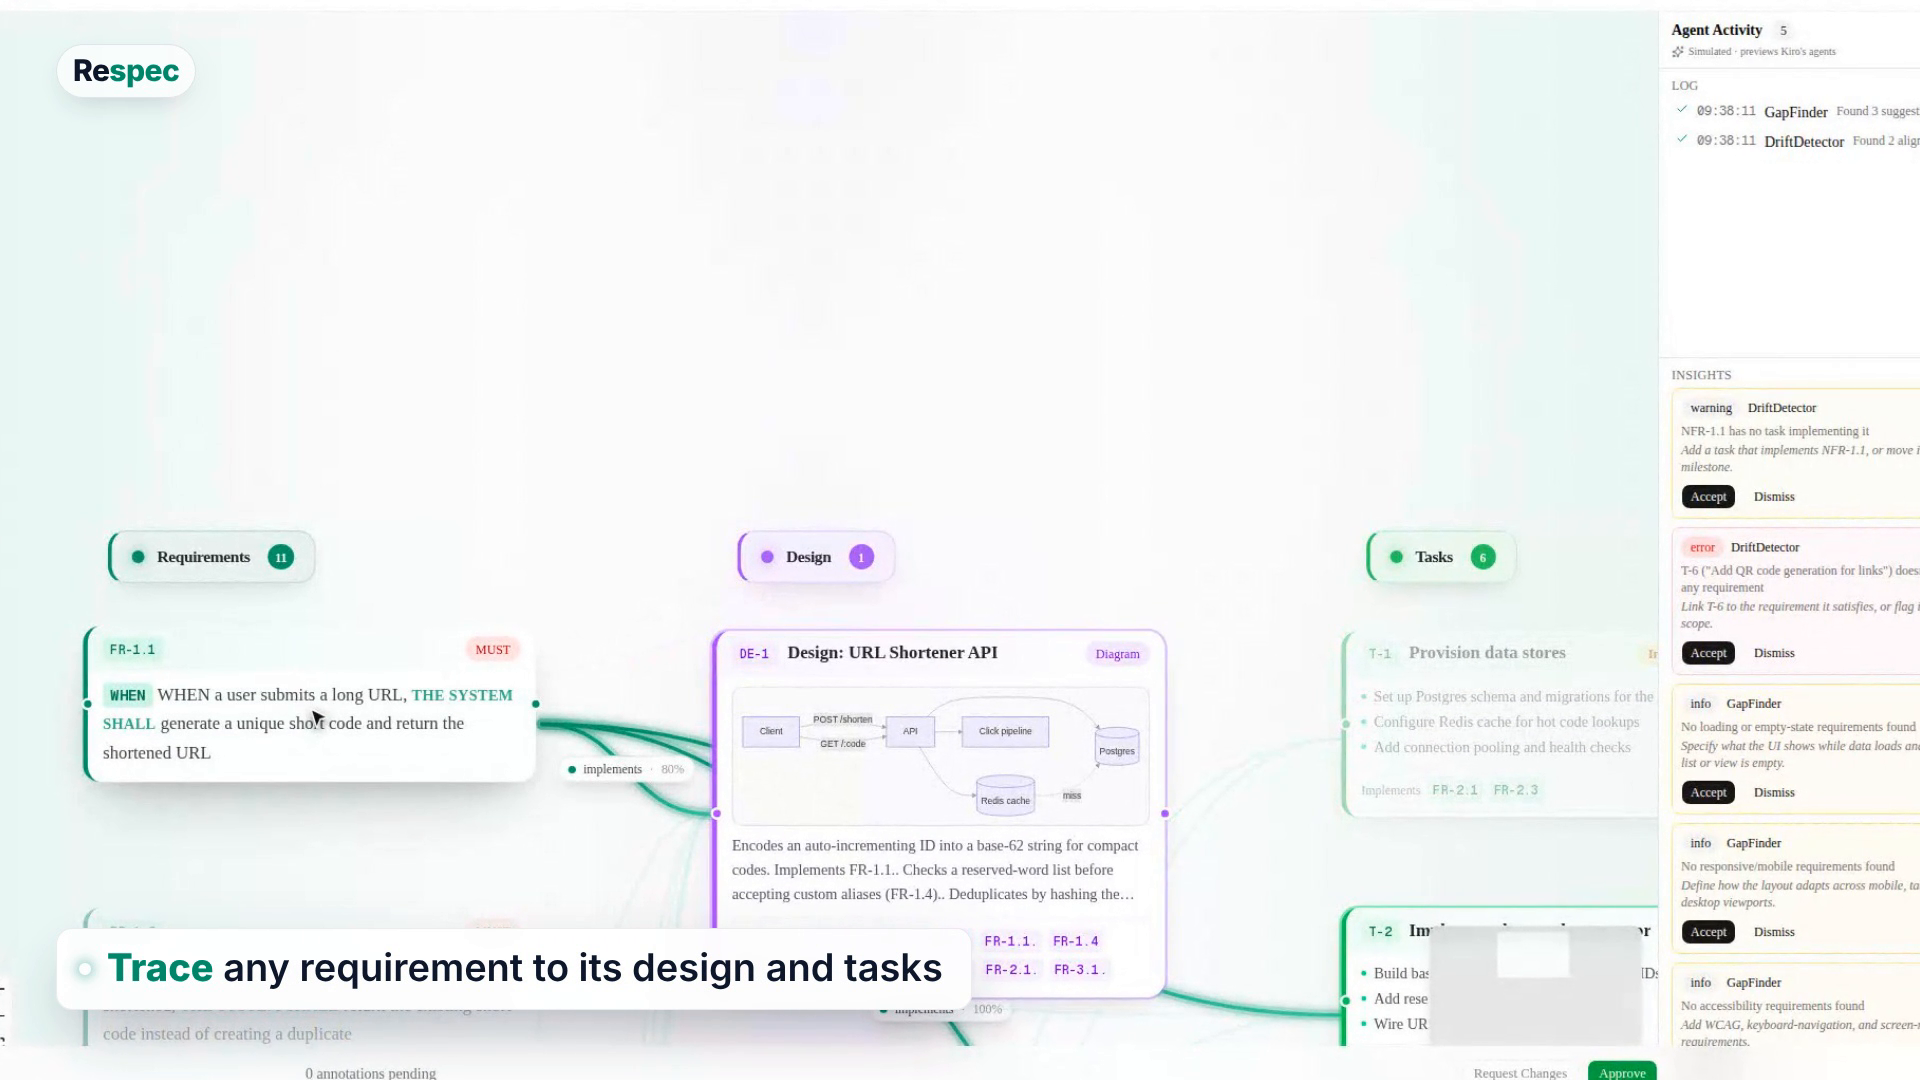
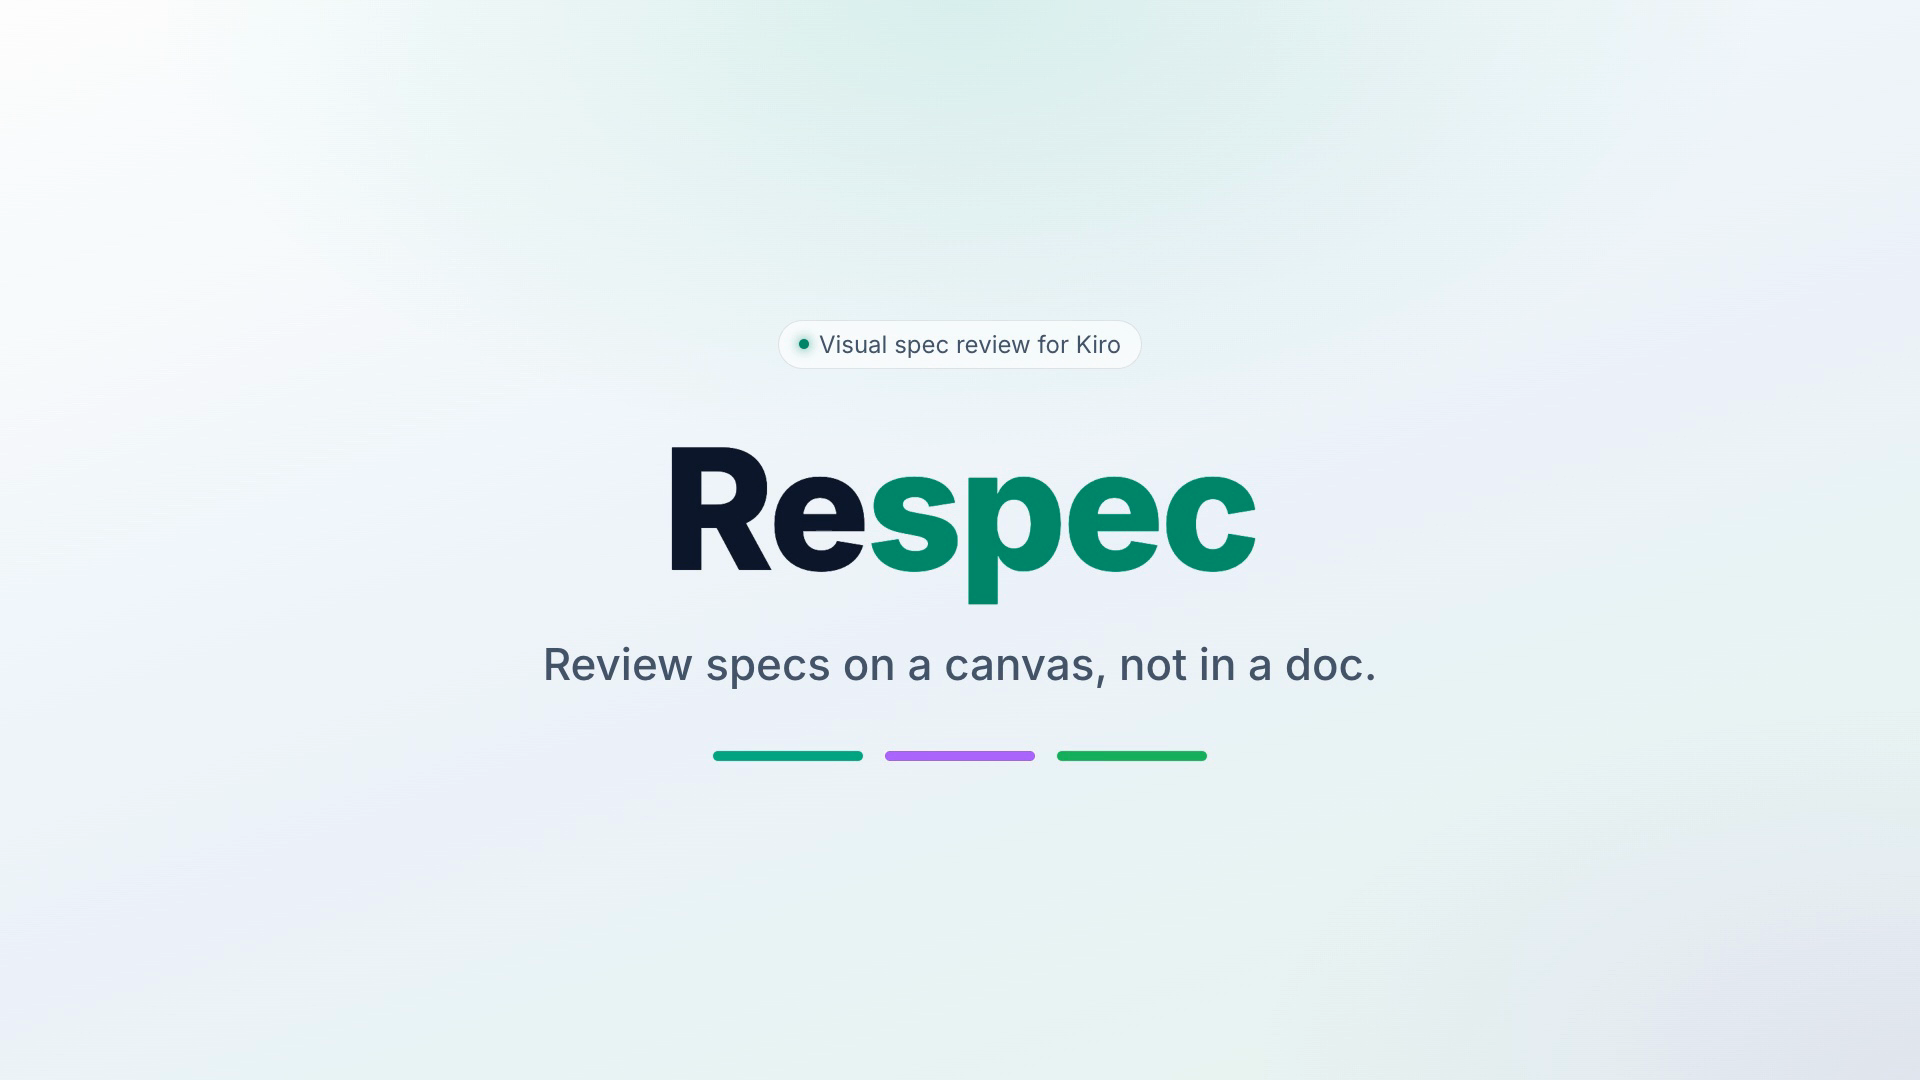
Consolidate demo to one light-mode video under 30s
Replace the dual light/dark demo videos with a single light-theme
HyperFrames composition that covers every feature (landing, canvas
reveal, hover-to-trace, agent flags, annotate, compile feedback,
approve + handoff) in one 28s clip.

- index.html: retimed to 28s, light palette, Ken-Burns zooms; drop the
  separate index-light.html variant (removes duplicate-root lint error)
- assets/*.mp4: re-encoded from the light captures, sped up per scene
- convert.sh / capture.mjs: default to the light pipeline
- docs: single respec-demo.mp4 + regenerated poster; drop the -light and
  dark dual variants
- README: point the Demo section at the one video

diff --git a/demo-video/index.html b/demo-video/index.html
@@ -6,80 +6,80 @@
     <script src="https://cdn.jsdelivr.net/npm/gsap@3.14.2/dist/gsap.min.js"></script>
     <style>
       * { margin: 0; padding: 0; box-sizing: border-box; }
-      html, body { width: 1920px; height: 1080px; overflow: hidden; background: #07090c; }
+      html, body { width: 1920px; height: 1080px; overflow: hidden; background: #f6f8fb; }
       body { font-family: "Inter", system-ui, sans-serif; }
       .mono { font-family: "JetBrains Mono", monospace; }
 
-      #root { position: relative; width: 1920px; height: 1080px; overflow: hidden; background: #07090c; }
+      #root { position: relative; width: 1920px; height: 1080px; overflow: hidden; background: #f6f8fb; }
 
       /* Full-bleed scene background (never on #root itself per determinism rules) */
       .bg {
         position: absolute; inset: 0;
         background:
-          radial-gradient(60% 60% at 50% 0%, rgba(16,185,129,.16), transparent 70%),
-          radial-gradient(50% 50% at 100% 100%, rgba(168,85,247,.12), transparent 70%),
-          linear-gradient(160deg, #07090c 0%, #0b1220 55%, #05130d 100%);
+          radial-gradient(60% 60% at 50% 0%, rgba(16,185,129,.12), transparent 70%),
+          radial-gradient(50% 50% at 100% 100%, rgba(168,85,247,.10), transparent 70%),
+          linear-gradient(160deg, #ffffff 0%, #eef3f9 55%, #eaf6ef 100%);
       }
 
-      /* ---- Video clips ---- */
+      /* ---- Video clips (full-frame; GSAP owns transform for the zoom) ---- */
       video.shot {
-        position: absolute; left: 50%; top: 50%;
-        width: 1920px; height: 1080px; transform: translate(-50%, -50%);
-        object-fit: cover; background: #07090c;
+        position: absolute; inset: 0;
+        width: 1920px; height: 1080px;
+        object-fit: cover; background: #f6f8fb; will-change: transform;
       }
 
       /* ---- Brand chrome over the footage ---- */
-      .wordmark { font-weight: 800; letter-spacing: -.02em; color: #fafafa; }
-      .wordmark .accent { color: #34d399; }
+      .wordmark { font-weight: 800; letter-spacing: -.02em; color: #0f172a; }
+      .wordmark .accent { color: #059669; }
 
       #brand {
         position: absolute; left: 56px; top: 44px; font-size: 30px;
         padding: 8px 16px; border-radius: 999px;
-        background: rgba(9,12,16,.55); border: 1px solid rgba(255,255,255,.1);
-        backdrop-filter: blur(6px);
+        background: rgba(255,255,255,.72); border: 1px solid rgba(15,23,42,.1);
+        backdrop-filter: blur(6px); box-shadow: 0 10px 30px -12px rgba(15,23,42,.25);
       }
 
-      /* ---- Lower-third caption ---- */
+      /* ---- Lower-third caption (light card, dark text, strong shadow) ---- */
       .cap {
         position: absolute; left: 56px; bottom: 70px;
         display: flex; align-items: center; gap: 16px;
         padding: 18px 28px 18px 22px; border-radius: 16px;
-        background: rgba(9,12,16,.72); border: 1px solid rgba(255,255,255,.12);
-        box-shadow: 0 24px 60px -20px rgba(0,0,0,.6); backdrop-filter: blur(10px);
+        background: rgba(255,255,255,.93); border: 1px solid rgba(15,23,42,.08);
+        box-shadow: 0 26px 64px -18px rgba(15,23,42,.45); backdrop-filter: blur(10px);
         max-width: 1180px;
       }
       .cap .dot { width: 12px; height: 12px; border-radius: 50%; flex: none; box-shadow: 0 0 14px currentColor; }
-      .cap .txt { font-size: 38px; font-weight: 600; color: #f4f4f5; line-height: 1.15; }
+      .cap .txt { font-size: 38px; font-weight: 600; color: #0f172a; line-height: 1.15; }
       .cap .k { font-weight: 800; }
-      .cap-em { color: #34d399; } .cap-pu { color: #c084fc; } .cap-gr { color: #4ade80; }
+      .cap-em { color: #059669; } .cap-pu { color: #9333ea; } .cap-gr { color: #16a34a; }
 
       /* ---- Intro / Outro cards ---- */
       .card { position: absolute; inset: 0; display: flex; flex-direction: column; align-items: center; justify-content: center; }
       .card .badge {
-        display: inline-flex; align-items: center; gap: 10px; font-size: 24px; color: #a8b3c4;
-        padding: 9px 20px; border-radius: 999px; border: 1px solid rgba(255,255,255,.12);
-        background: rgba(255,255,255,.04); margin-bottom: 38px;
+        display: inline-flex; align-items: center; gap: 10px; font-size: 24px; color: #475569;
+        padding: 9px 20px; border-radius: 999px; border: 1px solid rgba(15,23,42,.1);
+        background: rgba(255,255,255,.7); margin-bottom: 38px;
       }
-      .card .badge .pulse { width: 10px; height: 10px; border-radius: 50%; background: #34d399; box-shadow: 0 0 12px #34d399; }
+      .card .badge .pulse { width: 10px; height: 10px; border-radius: 50%; background: #059669; box-shadow: 0 0 12px #059669; }
       #intro-word { font-size: 168px; }
-      #intro-tag { font-size: 44px; color: #cbd5e1; margin-top: 26px; font-weight: 500; }
+      #intro-tag { font-size: 44px; color: #475569; margin-top: 26px; font-weight: 500; }
       #intro-cols { display: flex; gap: 22px; margin-top: 60px; }
       #intro-cols .c { width: 150px; height: 10px; border-radius: 6px; }
 
       #outro-word { font-size: 150px; }
-      #outro-sub { font-size: 40px; color: #cbd5e1; margin-top: 22px; font-weight: 500; }
-      #outro-url { font-size: 34px; color: #34d399; margin-top: 40px; letter-spacing: .01em; }
-      #outro-foot { font-size: 26px; color: #8b97a8; margin-top: 14px; }
+      #outro-sub { font-size: 40px; color: #475569; margin-top: 22px; font-weight: 500; }
+      #outro-url { font-size: 34px; color: #059669; margin-top: 40px; letter-spacing: .01em; }
+      #outro-foot { font-size: 26px; color: #64748b; margin-top: 14px; }
     </style>
   </head>
   <body>
-    <div id="root" data-composition-id="main" data-start="0" data-duration="44.5" data-width="1920" data-height="1080" data-fps="30">
+    <div id="root" data-composition-id="main" data-start="0" data-duration="28.0" data-width="1920" data-height="1080" data-fps="30">
       <!-- persistent scene background under the footage -->
-      <div id="bg" class="clip bg" data-start="0" data-duration="44.5" data-track-index="0"></div>
+      <div id="bg" class="clip bg" data-start="0" data-duration="28.0" data-track-index="0"></div>
 
       <!-- ============ INTRO ============ -->
-      <section id="intro" class="clip card" data-start="0" data-duration="3.4" data-track-index="6">
-        <div class="bg" style="opacity:.9"></div>
+      <section id="intro" class="clip card" data-start="0" data-duration="2.0" data-track-index="6">
+        <div class="bg" style="opacity:.95"></div>
         <div style="position:relative; display:flex; flex-direction:column; align-items:center;">
           <span id="intro-badge" class="badge"><span class="pulse"></span> Visual spec review for Kiro</span>
           <div id="intro-word" class="wordmark">Re<span class="accent">spec</span></div>
@@ -92,27 +92,27 @@
         </div>
       </section>
 
-      <!-- ============ FOOTAGE (videos alternate visually via fade-ins) ============ -->
-      <video id="v-home"   class="shot" src="assets/home.mp4"   data-start="3.0"  data-duration="4.5"  data-track-index="1" muted playsinline></video>
-      <video id="v-reveal" class="shot" src="assets/reveal.mp4" data-start="7.5"  data-duration="5.5"  data-track-index="2" muted playsinline></video>
-      <video id="v-trace"  class="shot" src="assets/trace.mp4"  data-start="13.0" data-duration="5.5"  data-track-index="1" muted playsinline></video>
-      <video id="v-rail"   class="shot" src="assets/rail.mp4"   data-start="18.5" data-duration="4.5"  data-track-index="2" muted playsinline></video>
-      <video id="v-review" class="shot" src="assets/review.mp4" data-start="23.0" data-duration="18.0" data-track-index="1" muted playsinline></video>
+      <!-- ============ FOOTAGE (chained back-to-back, soft fade at each cut) ============ -->
+      <video id="v-home"   class="shot" src="assets/home.mp4"   data-start="1.85"   data-duration="2.933"  data-track-index="1" muted playsinline></video>
+      <video id="v-reveal" class="shot" src="assets/reveal.mp4" data-start="4.783"  data-duration="3.333"  data-track-index="2" muted playsinline></video>
+      <video id="v-trace"  class="shot" src="assets/trace.mp4"  data-start="8.116"  data-duration="3.333"  data-track-index="1" muted playsinline></video>
+      <video id="v-rail"   class="shot" src="assets/rail.mp4"   data-start="11.449" data-duration="2.967"  data-track-index="2" muted playsinline></video>
+      <video id="v-review" class="shot" src="assets/review.mp4" data-start="14.416" data-duration="11.567" data-track-index="1" muted playsinline></video>
 
       <!-- brand chip over footage -->
-      <div id="brand" class="clip wordmark" data-start="3.0" data-duration="38.0" data-track-index="4">Re<span class="accent">spec</span></div>
+      <div id="brand" class="clip wordmark" data-start="1.85" data-duration="24.133" data-track-index="4">Re<span class="accent">spec</span></div>
 
       <!-- ============ CAPTIONS ============ -->
-      <div id="cap1" class="clip cap" data-start="3.4"  data-duration="3.9" data-track-index="5"><span class="dot cap-em" style="color:#34d399"></span><span class="txt">Turn Kiro specs into an <span class="k cap-em">interactive canvas</span></span></div>
-      <div id="cap2" class="clip cap" data-start="7.7"  data-duration="5.0" data-track-index="5"><span class="dot" style="color:#a855f7"></span><span class="txt"><span class="k cap-em">Requirements</span> → <span class="k cap-pu">Design</span> → <span class="k cap-gr">Tasks</span>, fully cross-referenced</span></div>
-      <div id="cap3" class="clip cap" data-start="13.2" data-duration="5.1" data-track-index="5"><span class="dot" style="color:#34d399"></span><span class="txt"><span class="k cap-em">Trace</span> any requirement to its design and tasks</span></div>
-      <div id="cap4" class="clip cap" data-start="18.7" data-duration="4.1" data-track-index="5"><span class="dot" style="color:#fbbf24"></span><span class="txt">Review <span class="k" style="color:#fbbf24">agents</span> flag gaps and drift</span></div>
-      <div id="cap5" class="clip cap" data-start="23.3" data-duration="4.6" data-track-index="5"><span class="dot" style="color:#34d399"></span><span class="txt"><span class="k cap-em">Annotate</span> issues inline</span></div>
-      <div id="cap6" class="clip cap" data-start="28.2" data-duration="5.0" data-track-index="5"><span class="dot" style="color:#a855f7"></span><span class="txt">Compile <span class="k cap-pu">structured feedback</span> for Kiro</span></div>
-      <div id="cap7" class="clip cap" data-start="33.6" data-duration="6.8" data-track-index="5"><span class="dot" style="color:#4ade80"></span><span class="txt"><span class="k cap-gr">Approve</span>, then hand off to Kiro to build</span></div>
+      <div id="cap1" class="clip cap" data-start="2.15"   data-duration="2.4" data-track-index="5"><span class="dot cap-em" style="color:#059669"></span><span class="txt">Turn Kiro specs into an <span class="k cap-em">interactive canvas</span></span></div>
+      <div id="cap2" class="clip cap" data-start="4.9"    data-duration="3.0" data-track-index="5"><span class="dot" style="color:#9333ea"></span><span class="txt"><span class="k cap-em">Requirements</span> → <span class="k cap-pu">Design</span> → <span class="k cap-gr">Tasks</span>, fully cross-referenced</span></div>
+      <div id="cap3" class="clip cap" data-start="8.2"    data-duration="3.0" data-track-index="5"><span class="dot" style="color:#059669"></span><span class="txt"><span class="k cap-em">Trace</span> any requirement to its design and tasks</span></div>
+      <div id="cap4" class="clip cap" data-start="11.55"  data-duration="2.6" data-track-index="5"><span class="dot" style="color:#d97706"></span><span class="txt">Review <span class="k" style="color:#d97706">agents</span> flag gaps and drift</span></div>
+      <div id="cap5" class="clip cap" data-start="14.6"   data-duration="3.5" data-track-index="5"><span class="dot" style="color:#059669"></span><span class="txt"><span class="k cap-em">Annotate</span> issues inline</span></div>
+      <div id="cap6" class="clip cap" data-start="18.3"   data-duration="3.5" data-track-index="5"><span class="dot" style="color:#9333ea"></span><span class="txt">Compile <span class="k cap-pu">structured feedback</span> for Kiro</span></div>
+      <div id="cap7" class="clip cap" data-start="22.0"   data-duration="3.7" data-track-index="5"><span class="dot" style="color:#16a34a"></span><span class="txt"><span class="k cap-gr">Approve</span>, then hand off to Kiro to build</span></div>
 
       <!-- ============ OUTRO ============ -->
-      <section id="outro" class="clip card" data-start="41.0" data-duration="3.5" data-track-index="6">
+      <section id="outro" class="clip card" data-start="25.783" data-duration="2.217" data-track-index="6">
         <div class="bg"></div>
         <div style="position:relative; display:flex; flex-direction:column; align-items:center;">
           <div id="outro-word" class="wordmark">Re<span class="accent">spec</span></div>
@@ -129,33 +129,44 @@
       const ease = "power3.out";
 
       // Intro
-      tl.from("#intro-badge", { y: 24, opacity: 0, duration: 0.6, ease }, 0.15);
-      tl.from("#intro-word", { y: 40, opacity: 0, duration: 0.7, ease }, 0.3);
-      tl.from("#intro-tag", { y: 24, opacity: 0, duration: 0.6, ease }, 0.6);
-      tl.from("#intro-cols .c", { scaleX: 0, transformOrigin: "left center", opacity: 0, duration: 0.5, stagger: 0.08, ease }, 0.8);
-      tl.to("#intro", { opacity: 0, duration: 0.5, ease: "power2.inOut" }, 3.0);
+      tl.from("#intro-badge", { y: 24, opacity: 0, duration: 0.4, ease }, 0.10);
+      tl.from("#intro-word", { y: 40, opacity: 0, duration: 0.45, ease }, 0.20);
+      tl.from("#intro-tag", { y: 24, opacity: 0, duration: 0.4, ease }, 0.38);
+      tl.from("#intro-cols .c", { scaleX: 0, transformOrigin: "left center", opacity: 0, duration: 0.3, stagger: 0.05, ease }, 0.50);
+      tl.to("#intro", { opacity: 0, duration: 0.35, ease: "power2.inOut" }, 1.65);
 
-      // Footage fade-ins (opacity is animatable; gives a soft cut from the dark bg)
-      const fadeIn = (sel, t) => tl.fromTo(sel, { opacity: 0 }, { opacity: 1, duration: 0.45, ease: "power2.out" }, t);
-      fadeIn("#v-home", 3.0); fadeIn("#v-reveal", 7.5); fadeIn("#v-trace", 13.0);
-      fadeIn("#v-rail", 18.5); fadeIn("#v-review", 23.0);
-      tl.from("#brand", { opacity: 0, x: -16, duration: 0.5, ease }, 3.2);
-      tl.to("#brand", { opacity: 0, duration: 0.4 }, 40.6);
-      tl.set("#brand", { opacity: 0 }, 41.0);
+      // Footage soft fade-ins (a soft cut from the previous clip / bg)
+      const fadeIn = (sel, t) => tl.fromTo(sel, { opacity: 0 }, { opacity: 1, duration: 0.4, ease: "power2.out" }, t);
+      fadeIn("#v-home", 1.85); fadeIn("#v-reveal", 4.783); fadeIn("#v-trace", 8.116);
+      fadeIn("#v-rail", 11.449); fadeIn("#v-review", 14.416);
+
+      // Zoom effects — Ken Burns + punch-ins, authored on the main timeline at global time.
+      const kb = (sel, from, to, origin, start, dur) =>
+        tl.fromTo(sel, { scale: from, transformOrigin: origin },
+                       { scale: to, transformOrigin: origin, duration: dur, ease: "none" }, start);
+      kb("#v-home",   1.00, 1.06, "50% 50%", 1.85,   2.933);
+      kb("#v-reveal", 1.08, 1.00, "50% 48%", 4.783,  3.333);  // pull back as the graph builds
+      kb("#v-trace",  1.00, 1.11, "30% 64%", 8.116,  3.333);  // push toward the traced requirement
+      kb("#v-rail",   1.00, 1.10, "90% 42%", 11.449, 2.967);  // push toward the agent rail
+      kb("#v-review", 1.00, 1.08, "58% 60%", 14.416, 11.567); // slow push across the review loop
+
+      tl.from("#brand", { opacity: 0, x: -16, duration: 0.5, ease }, 2.05);
+      tl.to("#brand", { opacity: 0, duration: 0.4 }, 25.583);
+      tl.set("#brand", { opacity: 0 }, 25.783);
 
       // Captions: slide-up in, fade out near the end of each window
-      const caps = [["#cap1",3.4,3.9],["#cap2",7.7,5.0],["#cap3",13.2,5.1],["#cap4",18.7,4.1],["#cap5",23.3,4.6],["#cap6",28.2,5.0],["#cap7",33.6,6.8]];
+      const caps = [["#cap1",2.15,2.4],["#cap2",4.9,3.0],["#cap3",8.2,3.0],["#cap4",11.55,2.6],["#cap5",14.6,3.5],["#cap6",18.3,3.5],["#cap7",22.0,3.7]];
       caps.forEach(([sel, start, dur]) => {
-        tl.fromTo(sel, { y: 28, opacity: 0 }, { y: 0, opacity: 1, duration: 0.5, ease }, start);
-        tl.to(sel, { y: -10, opacity: 0, duration: 0.4, ease: "power2.in" }, start + dur - 0.45);
+        tl.fromTo(sel, { y: 26, opacity: 0 }, { y: 0, opacity: 1, duration: 0.35, ease }, start);
+        tl.to(sel, { y: -10, opacity: 0, duration: 0.3, ease: "power2.in" }, start + dur - 0.34);
       });
 
       // Outro
-      tl.fromTo("#outro", { opacity: 0 }, { opacity: 1, duration: 0.5, ease: "power2.out" }, 41.0);
-      tl.from("#outro-word", { y: 40, opacity: 0, duration: 0.7, ease }, 41.2);
-      tl.from("#outro-sub", { y: 20, opacity: 0, duration: 0.6, ease }, 41.5);
-      tl.from("#outro-url", { y: 18, opacity: 0, duration: 0.6, ease }, 41.8);
-      tl.from("#outro-foot", { y: 14, opacity: 0, duration: 0.5, ease }, 42.0);
+      tl.fromTo("#outro", { opacity: 0 }, { opacity: 1, duration: 0.4, ease: "power2.out" }, 25.783);
+      tl.from("#outro-word", { y: 40, opacity: 0, duration: 0.5, ease }, 25.95);
+      tl.from("#outro-sub", { y: 20, opacity: 0, duration: 0.45, ease }, 26.20);
+      tl.from("#outro-url", { y: 18, opacity: 0, duration: 0.45, ease }, 26.40);
+      tl.from("#outro-foot", { y: 14, opacity: 0, duration: 0.4, ease }, 26.55);
 
       window.__timelines["main"] = tl;
     </script>

diff --git a/demo-video/README.md b/demo-video/README.md
@@ -1,26 +1,27 @@
 # Respec demo video — built with HyperFrames
 
-A ~45s silent, captioned product demo of [Respec](https://respec-ai.vercel.app), authored
+A ~28s silent, captioned product demo of [Respec](https://respec-ai.vercel.app), authored
 as **video-as-code** with [HeyGen HyperFrames](https://github.com/heygen-com/hyperframes)
-(HTML + GSAP → deterministic 1920×1080 / 30fps MP4).
+(HTML + GSAP → deterministic 1920×1080 / 30fps MP4). Light theme, every feature in one
+clip, under 30 seconds.
 
 ## How it's made
 
 ```
-capture.mjs   Playwright drives the REAL app and records per-scene clips
-   │            (dark mode, injected cursor + click ripples, tour hidden)
+capture.mjs   Playwright drives the REAL app (light theme) and records per-scene
+   │            clips (injected cursor + click ripples, tour hidden)
    ▼
-convert.sh    trims the lead-in and re-encodes each clip to a seekable mp4
-   │
+convert.sh    trims the lead-in, speeds each clip up, and re-encodes to a
+   │            seekable mp4 so the whole composition lands under 30s
    ▼
 index.html    HyperFrames composition: branded intro/outro (GSAP) + the clips
-   │            as <video> tracks + animated lower-third captions
+   │            as <video> tracks with Ken-Burns zooms + animated captions
    ▼
 render        npx hyperframes render → renders/respec-demo.mp4
 ```
 
-Storyboard: intro → landing → canvas reveal → hover-to-trace → agent flags →
-annotate → compile feedback → approve + handoff → outro.
+Storyboard (one clip, under 30s): intro → landing → canvas reveal → hover-to-trace →
+agent flags → annotate → compile feedback → approve + handoff → outro.
 
 ## Regenerate
 
@@ -28,10 +29,10 @@ annotate → compile feedback → approve + handoff → outro.
 # 1. run the app
 cd ../respec && npm run dev          # http://localhost:3000
 
-# 2. capture the real flow (Playwright comes from ../respec/node_modules)
-cd ../demo-video && node capture.mjs
+# 2. capture the real flow in light theme (Playwright comes from ../respec/node_modules)
+cd ../demo-video && THEME=light RAWDIR=assets/raw-light node capture.mjs
 
-# 3. trim + encode the clips
+# 3. trim, speed up, and encode the clips
 bash convert.sh
 
 # 4. preview / render
@@ -39,7 +40,7 @@ npx hyperframes preview              # studio timeline editor
 npx hyperframes render --quality high --output renders/respec-demo.mp4
 ```
 
-`assets/*.mp4` are the captured scene clips the composition plays; `assets/raw/`
+`assets/*.mp4` are the captured scene clips the composition plays; `assets/raw-light/`
 (intermediate webm) and `renders/` are gitignored.
 
 > In a network-restricted sandbox, HyperFrames' `onnxruntime-node` postinstall (AI features

diff --git a/README.md b/README.md
@@ -8,9 +8,9 @@ Respec turns `requirements.md`, `design.md`, and `tasks.md` into an interactive 
 
 ## Demo
 
-[![Watch the Respec demo](docs/respec-demo-poster.png)](docs/respec-demo-light.mp4)
+[![Watch the Respec demo](docs/respec-demo-poster.png)](docs/respec-demo.mp4)
 
-▶ **[Watch the ~35s walkthrough](docs/respec-demo-light.mp4)** — a real screen-capture of the full review loop (landing → canvas → trace → annotate → compile → approve → handoff), built with [HyperFrames](https://github.com/heygen-com/hyperframes). Also available in [dark mode](docs/respec-demo.mp4). Open the file on GitHub to play it in-browser; the "video-as-code" composition source lives in [`demo-video/`](demo-video).
+▶ **[Watch the ~28s walkthrough](docs/respec-demo.mp4)** — a real screen-capture of the full review loop (landing → canvas → trace → annotate → compile → approve → handoff), built with [HyperFrames](https://github.com/heygen-com/hyperframes). Open the file on GitHub to play it in-browser; the "video-as-code" composition source lives in [`demo-video/`](demo-video).
 
 ## Demo Flow
 
@@ -79,7 +79,7 @@ respec/
 ├── respec-extension/   # VS Code extension + webview
 ├── demo-video/         # HyperFrames "video-as-code" demo (capture + composition)
 ├── .kiro/              # Example Kiro specs, hooks, and steering
-└── docs/               # Architecture doc, screenshots, and the rendered demo videos
+└── docs/               # Architecture doc, screenshots, and the rendered demo video
 ```
 
 ## Notes